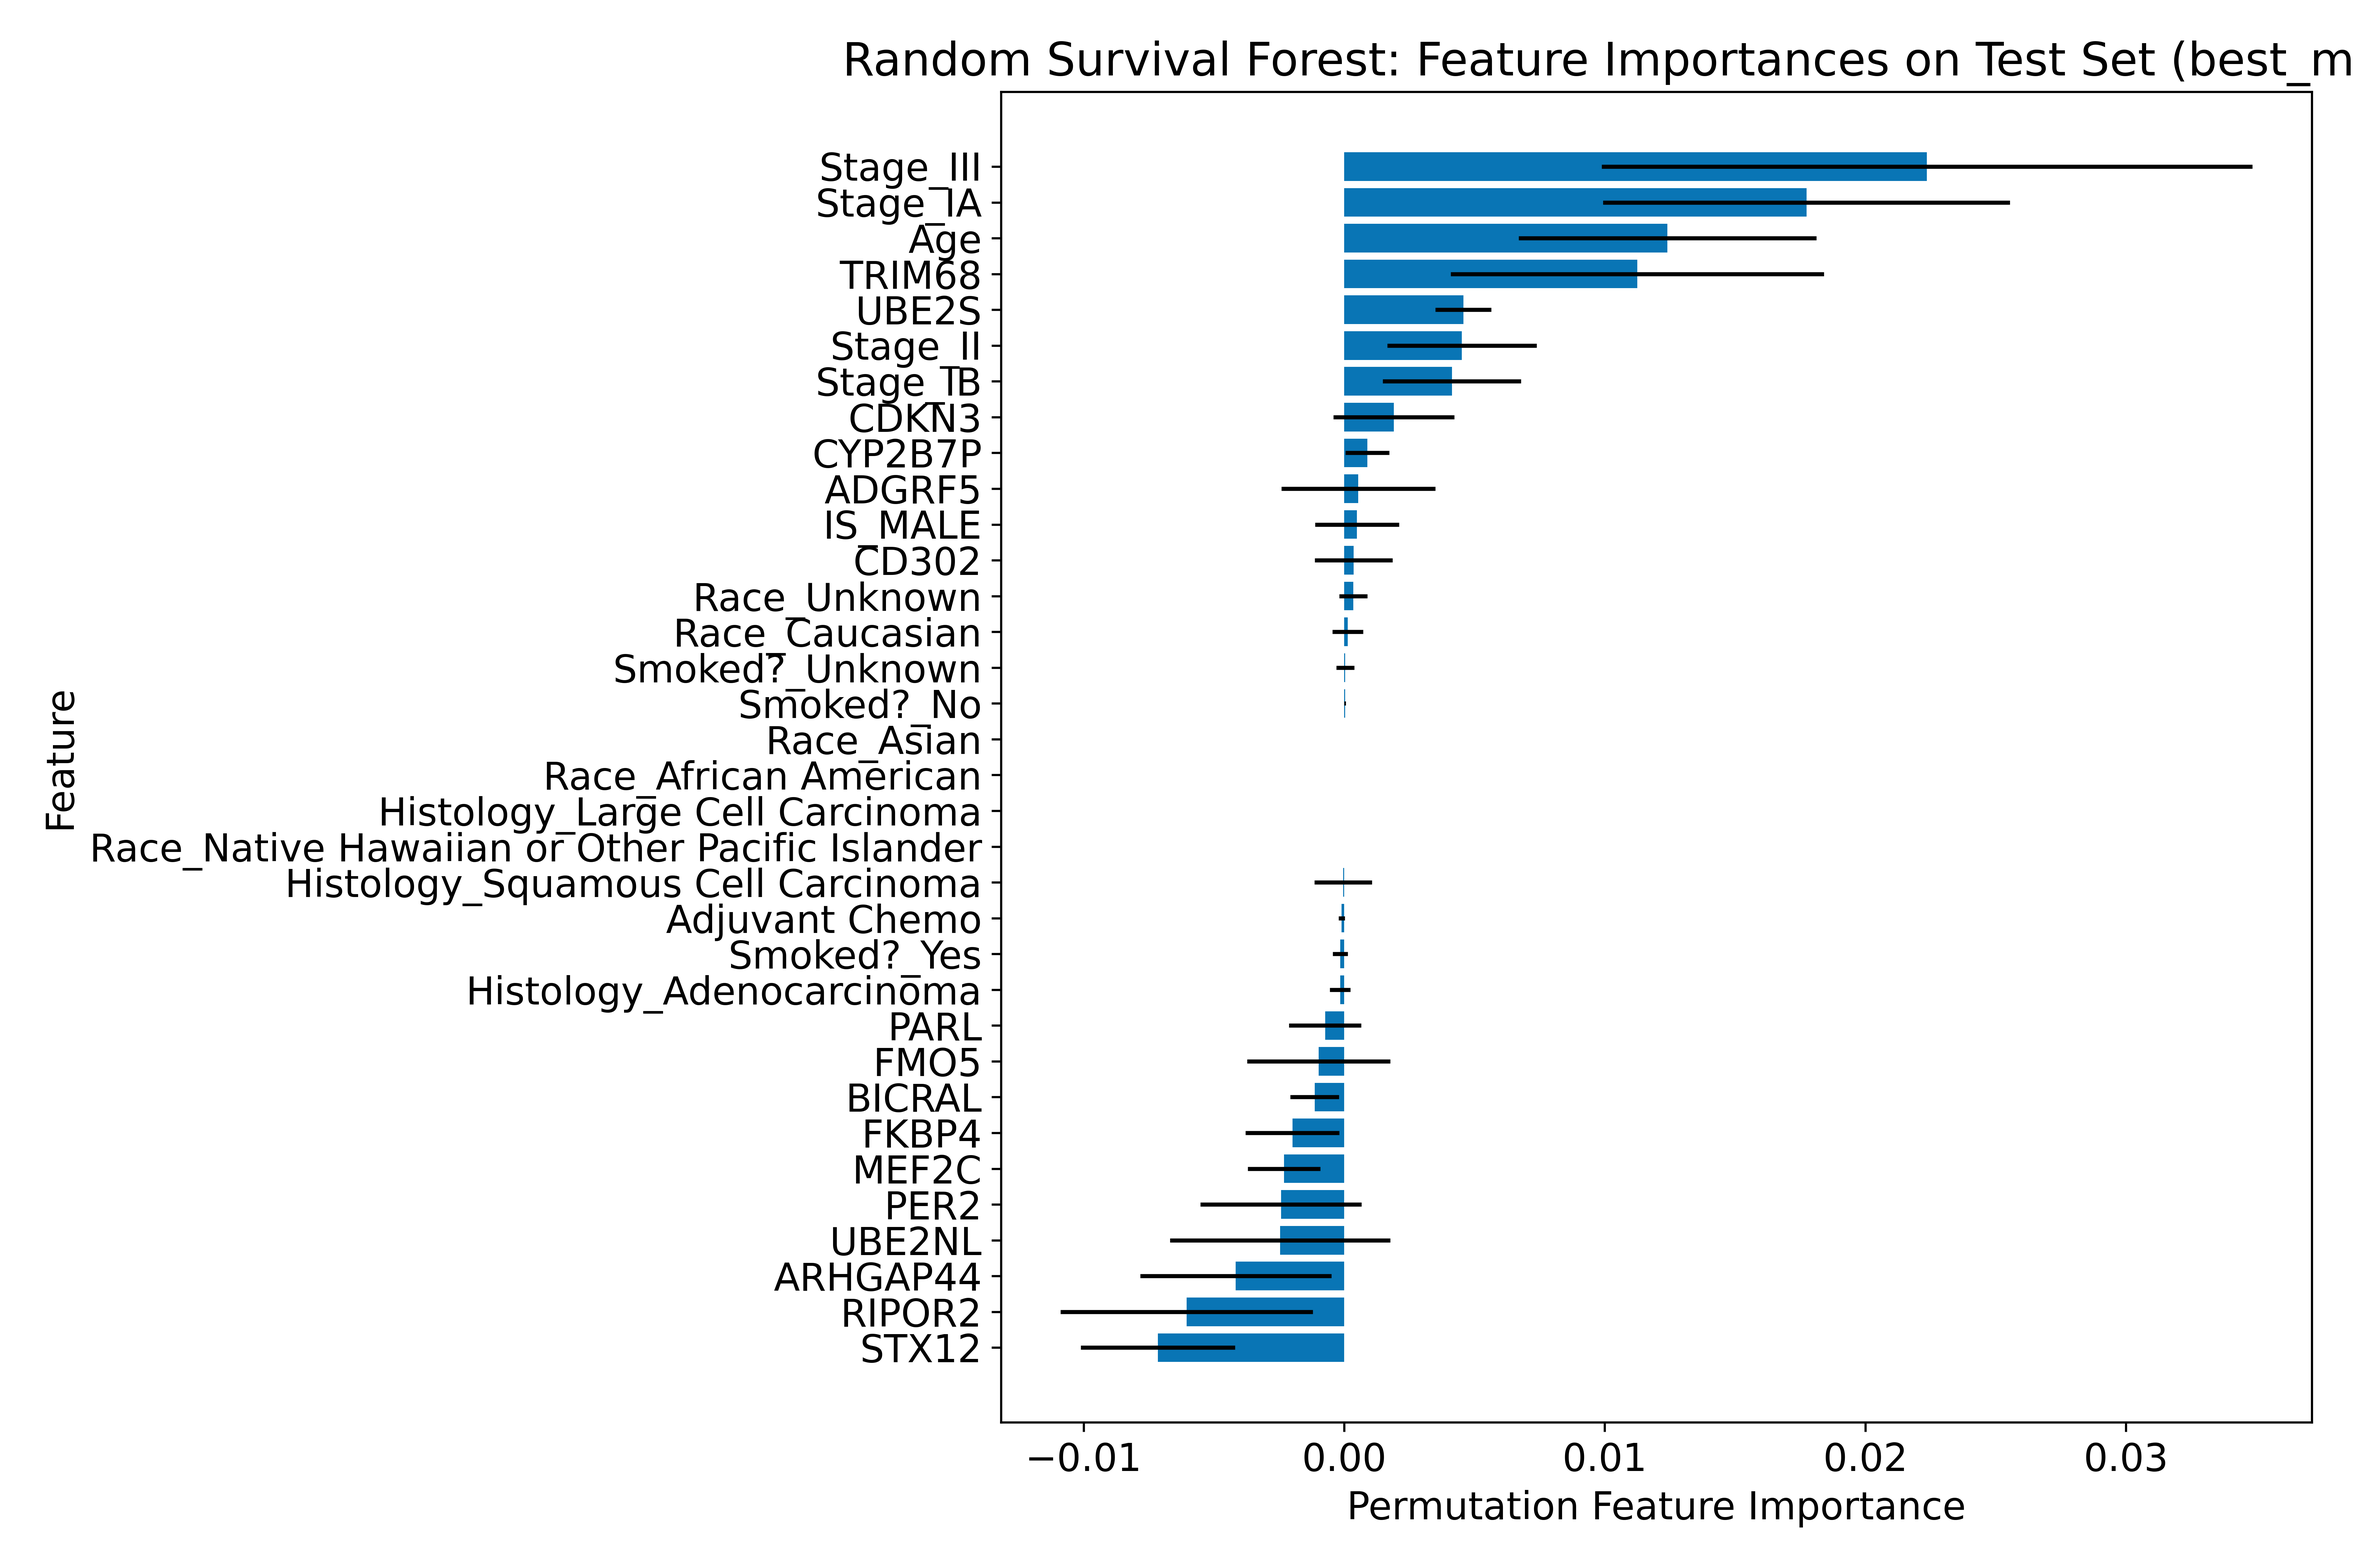
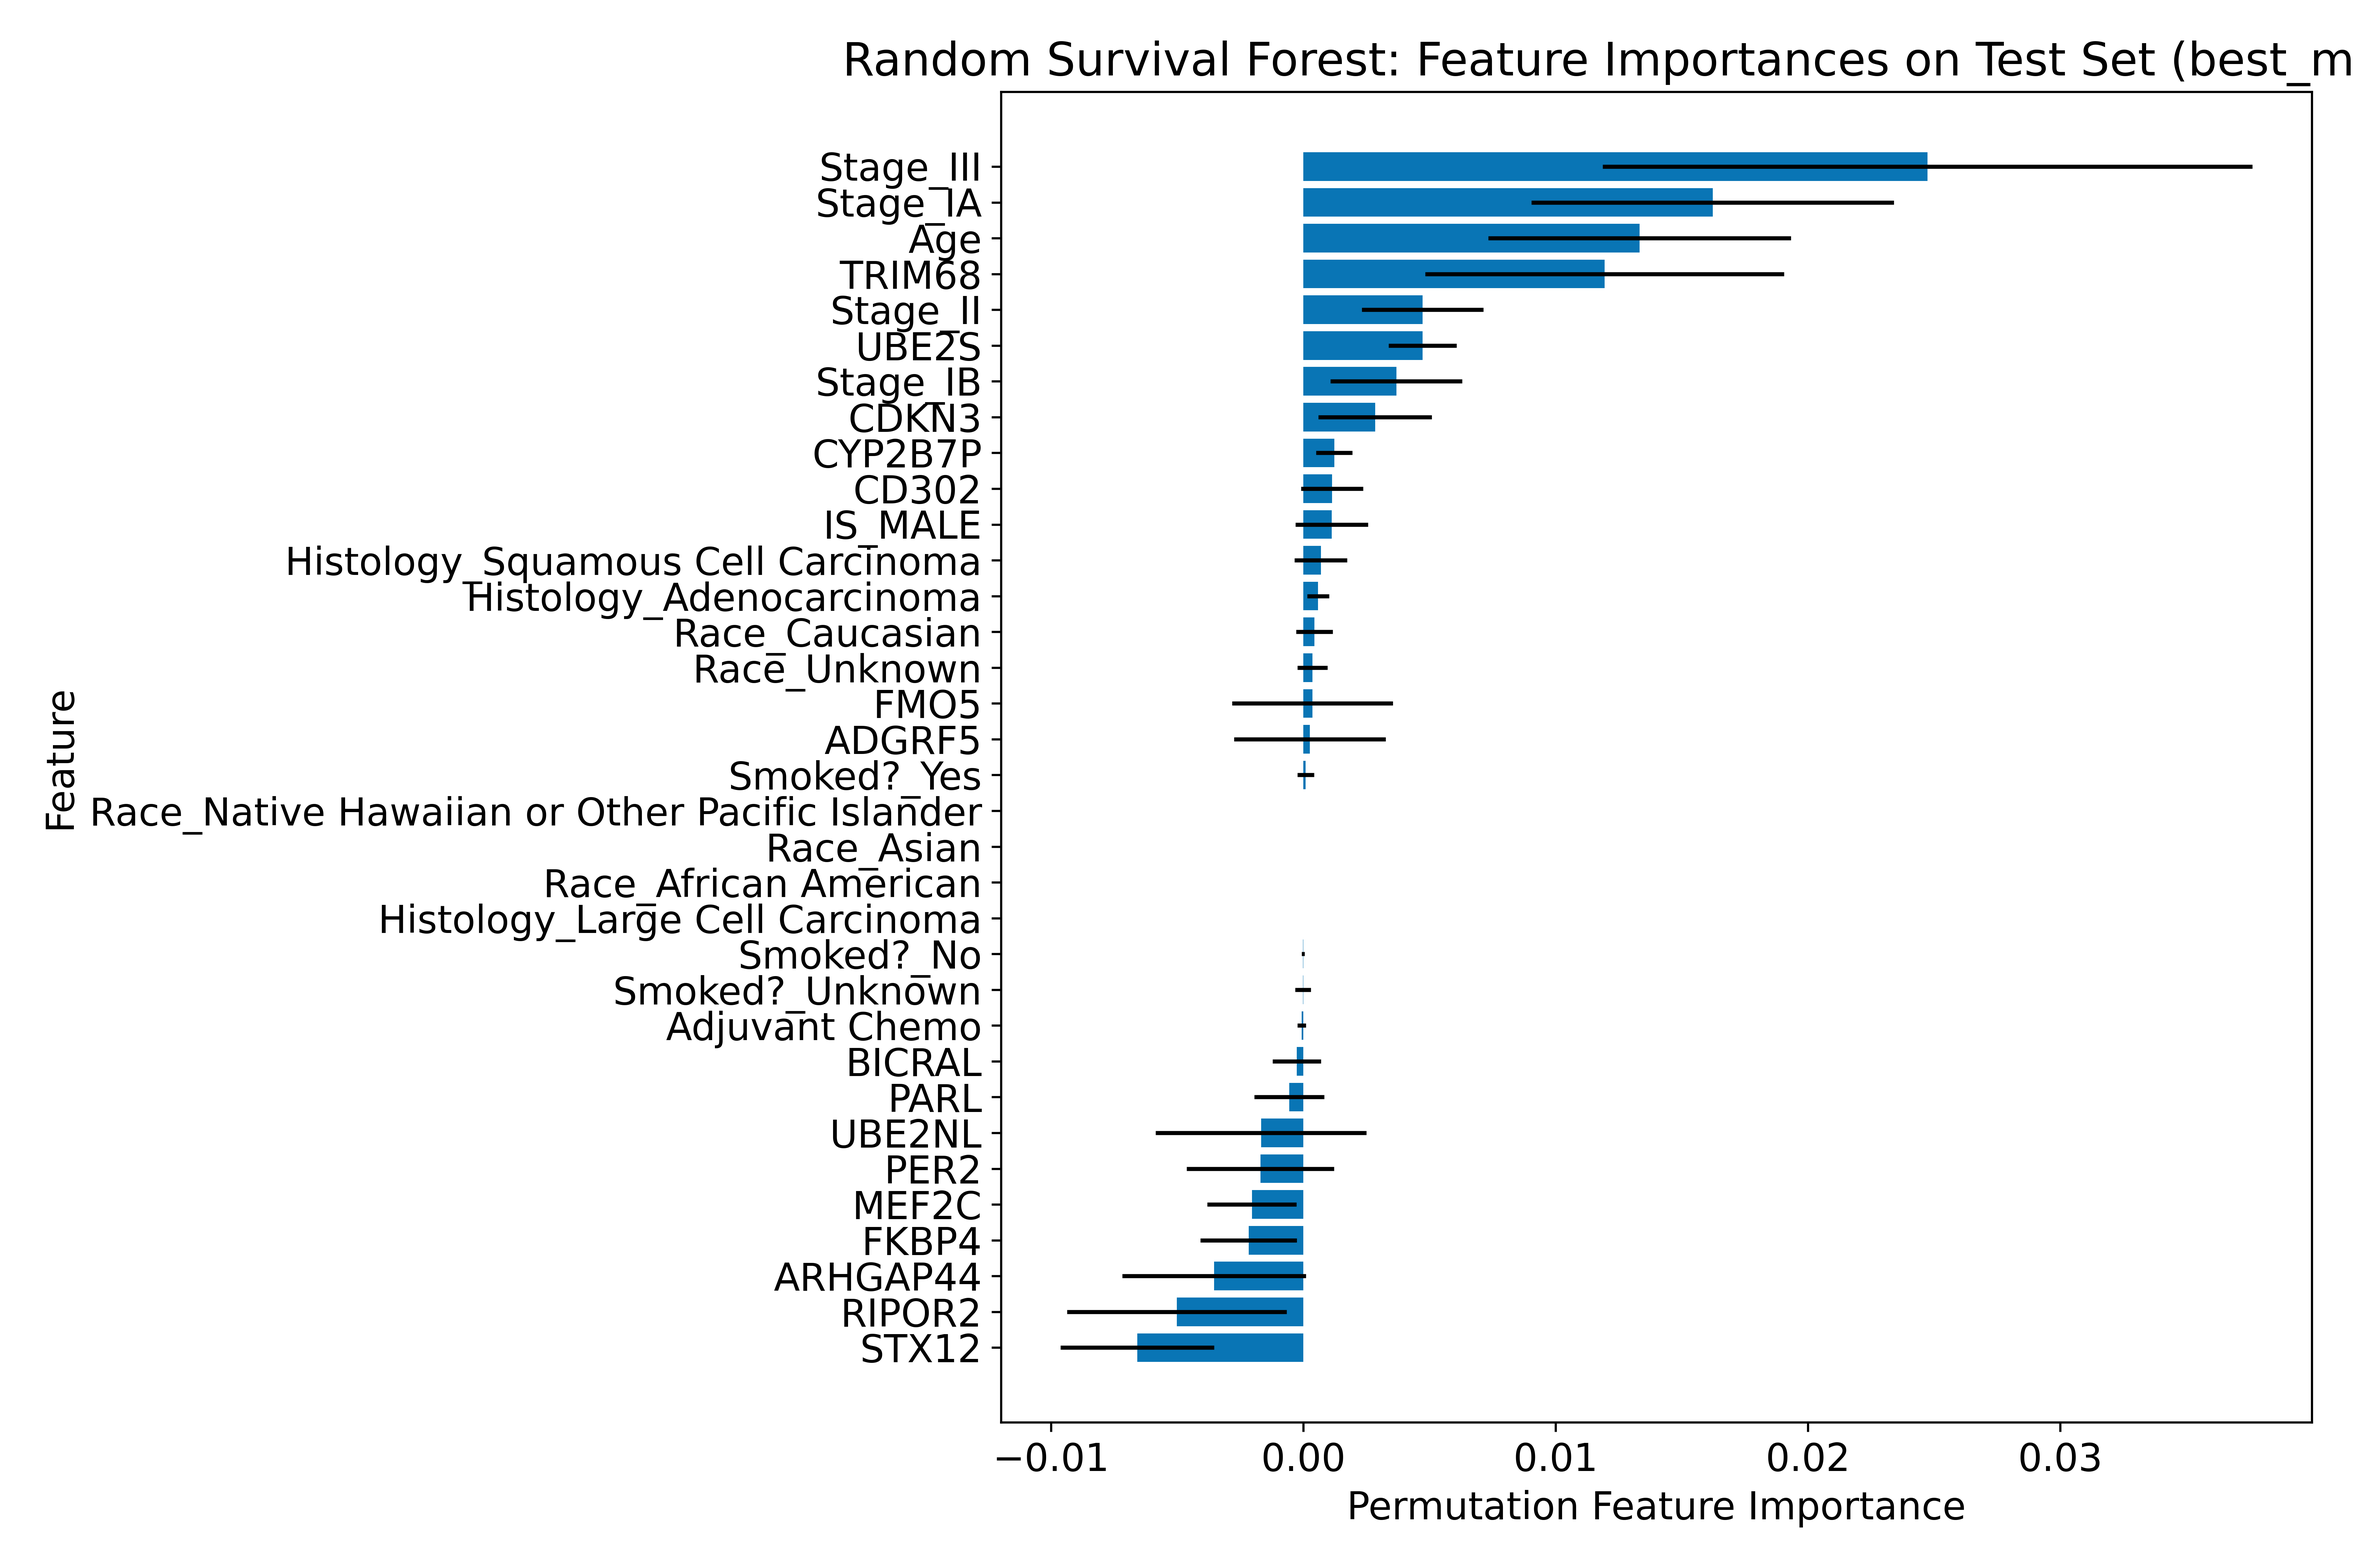
update random seed selection; add fh

diff --git a/RSF-Optuna-RunFinalModel.py b/RSF-Optuna-RunFinalModel.py
@@ -187,7 +187,7 @@ def make_rsf(**params):
 
 def compare_treatment_recommendation_km_rsf(model, df, genes_main, genes_inter, dup_inter,
                                            clin_cols,
-                                           time_col="OS_MONTHS", event_col="OS_STATUS", path =""):
+                                           time_col="OS_MONTHS", event_col="OS_STATUS", path ="", includeRMST=False, p=None, q=None):
     """KM comparison for alignment with model's treatment recommendation on provided data."""
     df = df.copy()
     df["Adjuvant Chemo"] = df["Adjuvant Chemo"].astype(int)
@@ -263,6 +263,25 @@ def compare_treatment_recommendation_km_rsf(model, df, genes_main, genes_inter, 
     plt.ylabel("Survival Probability")
     add_at_risk_counts(kmf_aligned, kmf_not_aligned)
     plt.text(0.1, 0.1, f"Log-rank p-value: {results.p_value:.4f}", transform=plt.gca().transAxes)
+    print(f"Log-rank test p-value: {results.p_value:.4f}")
+    
+    if includeRMST:
+        plt.text(0.1, 0.05, f"5-year RMST difference: {rmst_diff:.2f} months", transform=plt.gca().transAxes)
+    
+    if p is not None and q is not None:
+        # Calculate Fleming-Harrington p-value with weights p and q
+        fh_results = logrank_test(
+            df.loc[mask_aligned, time_col],
+            df.loc[mask_not_aligned, time_col],
+            event_observed_A=df.loc[mask_aligned, event_col],
+            event_observed_B=df.loc[mask_not_aligned, event_col],
+            weightings="fleming-harrington",
+            p = p, 
+            q = q
+        )
+        print(f"Fleming-Harrington test p-value (p={p}, q={q}): {fh_results.p_value:.4f}")
+        plt.text(0.1, 0.15, f"FH({p}, {q}) log-rank p-value: {fh_results.p_value:.4f}", transform=plt.gca().transAxes)
+    
     ax.set_xlim(left=0)
     ax.set_ylim(bottom=0)
     plt.tight_layout()
@@ -758,98 +777,10 @@ def evaluate_trial_seeds(
 # Model 1: Best model
 best_model_trial = best_trial
 
-# Model 2: Pareto candidate with highest validation CI
-if candidates:
-    one_se_nearest = max(candidates, key=lambda t: float(t.values[0]))
-else:
-    print("**PAY ATTENTION: No Pareto CI-max candidate found, defaulting to best trial.**")
-    one_se_nearest = best_trial
-
-# Model 3: Highest median RMST diff among Pareto candidates
 seed_list = list(range(1, 31))
-candidate_rmst_summary = []
-best_rmst_trial = one_se_nearest
-
-OUT_DIR = f"rsf_interactions_iptw_bounded-{RUN_TAG}-pareto"
-os.makedirs(OUT_DIR, exist_ok=True)
-candidate_summary_progress_csv = os.path.join(OUT_DIR, "candidate_rmst_summary_progress.csv")
-
-if os.path.exists(candidate_summary_progress_csv):
-    existing_summary_df = pd.read_csv(candidate_summary_progress_csv)
-    if not existing_summary_df.empty:
-        candidate_rmst_summary = existing_summary_df.to_dict("records")
-        print(f"Loaded existing candidate RMST progress: {len(candidate_rmst_summary)} rows")
-
-if candidates:
-    done_trial_numbers = {int(d["trial_number"]) for d in candidate_rmst_summary if "trial_number" in d}
-
-    for t in candidates:
-        if t.number in done_trial_numbers:
-            print(f"Skipping candidate trial #{t.number} (already in progress file).")
-            continue
-
-        # Print current out of total candidates for progress
-        print(f"\nEvaluating candidate trial #{t.number} ({candidates.index(t)+1}/{len(candidates)}) for RMST summary...")
-
-        candidate_runs_csv = os.path.join(OUT_DIR, f"candidate_trial_{t.number}_validation_runs.csv")
-        
-        eval_out = evaluate_trial_seeds(
-            t,
-            train_fit_df=train_df,
-            eval_df=valid_df,
-            w_fit=w_tr,
-            seed_list=seed_list,
-            label=f"candidate trial #{t.number} (validation)",
-            eval_label="Validation",
-            n_jobs=-1, # -1 to parallelize across seeds but results in non-determinism
-            checkpoint_csv_path=candidate_runs_csv,
-            checkpoint_every=1,
-        )
-        rmst_diffs = np.array(eval_out["all_rmst_diffs"], dtype=float)
-        med = float(np.median(rmst_diffs))
-        q1 = float(np.percentile(rmst_diffs, 25))
-        q3 = float(np.percentile(rmst_diffs, 75))
-        iqr = q3 - q1
-        candidate_rmst_summary.append({
-            "trial_number": t.number,
-            "val_ci": float(t.values[0]),
-            "median_rmst_diff": med,
-            "iqr_rmst_diff": iqr,
-        })
-
-        pd.DataFrame(candidate_rmst_summary).to_csv(candidate_summary_progress_csv, index=False)
-
-    candidate_rmst_summary.sort(key=lambda d: (-d["median_rmst_diff"], d["iqr_rmst_diff"]))
-    pd.DataFrame(candidate_rmst_summary).to_csv(os.path.join(OUT_DIR, "candidate_rmst_summary_final.csv"), index=False)
-    best_rmst_trial_number = candidate_rmst_summary[0]["trial_number"]
-    best_rmst_trial = next(t for t in candidates if t.number == best_rmst_trial_number)
-
-    # Plot distribution of median and IQR RMST diffs across candidates
-    medians = [d["median_rmst_diff"] for d in candidate_rmst_summary]
-    iqrs = [d["iqr_rmst_diff"] for d in candidate_rmst_summary]
-
-    fig, axes = plt.subplots(1, 2, figsize=(12, 5))
-    axes[0].hist(medians, bins=10, color=(100/255, 150/255, 255/255), alpha=0.7, edgecolor="black")
-    axes[0].set_title("Candidate Median RMST Diff (Validation, 60 months)")
-    axes[0].set_xlabel("Median RMST diff (months)")
-    axes[0].set_ylabel("Count")
-    axes[0].grid(axis="y", alpha=0.3)
-
-    axes[1].hist(iqrs, bins=10, color=(255/255, 150/255, 100/255), alpha=0.7, edgecolor="black")
-    axes[1].set_title("Candidate IQR RMST Diff (Validation, 60 months)")
-    axes[1].set_xlabel("IQR RMST diff (months)")
-    axes[1].set_ylabel("Count")
-    axes[1].grid(axis="y", alpha=0.3)
-
-    plt.tight_layout()
-    plt.savefig(os.path.join(OUT_DIR, "candidate_rmst_median_iqr_hist.png"), dpi=600)
-    print(f"Saved candidate RMST median/IQR histogram to: {os.path.join(OUT_DIR, 'candidate_rmst_median_iqr_hist.png')}")
-    plt.show(block=False)
 
 model_specs = [
     ("best_model", best_model_trial),
-    ("pareto_best_ci", one_se_nearest),
-    ("highest_median_rmst", best_rmst_trial),
 ]
 
 # Dataset for final training/eval
@@ -978,9 +909,40 @@ for model_label, trial in model_specs:
     plt.savefig(os.path.join(model_out_dir, "pvalue_and_rmst_distribution.png"), dpi=600)
     plt.show(block = False)
 
-    # Feature importance and final KM plot using median p-value seed
-    median_run_idx = np.argsort(all_pvalues)[len(all_pvalues)//2]
+    # Feature importance and final KM plot using ordinal minimax selection:
+    # 1) rank by |log(p) - log(median p)|
+    # 2) rank by |rmst - median rmst|
+    # 3) combined score R = max(rank_p, rank_r)
+    # 4) choose minimal R with deterministic tie-break
+    pvals_arr = np.asarray(all_pvalues, dtype=float)
+    rmst_arr = np.asarray(all_rmst_diffs, dtype=float)
+
+    p_eps = 1e-12
+    log_pvals = np.log(np.clip(pvals_arr, p_eps, None))
+    log_median_p = float(np.log(max(median_pvalue, p_eps)))
+    p_dist_log = np.abs(log_pvals - log_median_p)
+    r_dist = np.abs(rmst_arr - median_rmst_diff)
+
+    def _ordinal_ranks(dist):
+        order = np.argsort(dist, kind="mergesort")
+        ranks = np.empty_like(order, dtype=int)
+        ranks[order] = np.arange(1, len(dist) + 1)
+        return ranks
+
+    rankdist_p = _ordinal_ranks(p_dist_log)
+    rankdist_r = _ordinal_ranks(r_dist)
+    combined_rank = np.maximum(rankdist_p, rankdist_r)
+
+    # Deterministic tie-break: smaller combined rank, then smaller p-rank,
+    # then smaller r-rank, then earlier run index.
+    run_idx_arr = np.arange(len(seed_list))
+    median_run_idx = int(np.lexsort((run_idx_arr, rankdist_r, rankdist_p, combined_rank))[0])
     median_seed = seed_list[median_run_idx]
+    print(
+        f"\nSelected seed for final evaluation and feature importance: {median_seed} "
+        f"(Run {median_run_idx + 1}; R={combined_rank[median_run_idx]}, "
+        f"rank_p={rankdist_p[median_run_idx]}, rank_r={rankdist_r[median_run_idx]})"
+    )
     rsf_params = build_rsf_params_from_trial(trial)
     rsf_params["random_state"] = median_seed
 
@@ -988,7 +950,7 @@ for model_label, trial in model_specs:
         trial, trainval_df, test_df
     )
 
-    with threadpool_limits(limits=None):
+    with threadpool_limits(limits=1):
         rsf_final = make_rsf(**rsf_params)
         rsf_final.fit(X_trv, y_trv, sample_weight=w_trv)
 
@@ -999,7 +961,10 @@ for model_label, trial in model_specs:
             genes_inter=genes_inter,
             dup_inter=dup_inter,
             clin_cols=CLIN_FEATS,
-            path=model_out_dir + "/"
+            path=model_out_dir + "/", 
+            includeRMST=True,
+            p = 1, 
+            q = 0
         )
 
         result = permutation_importance(
